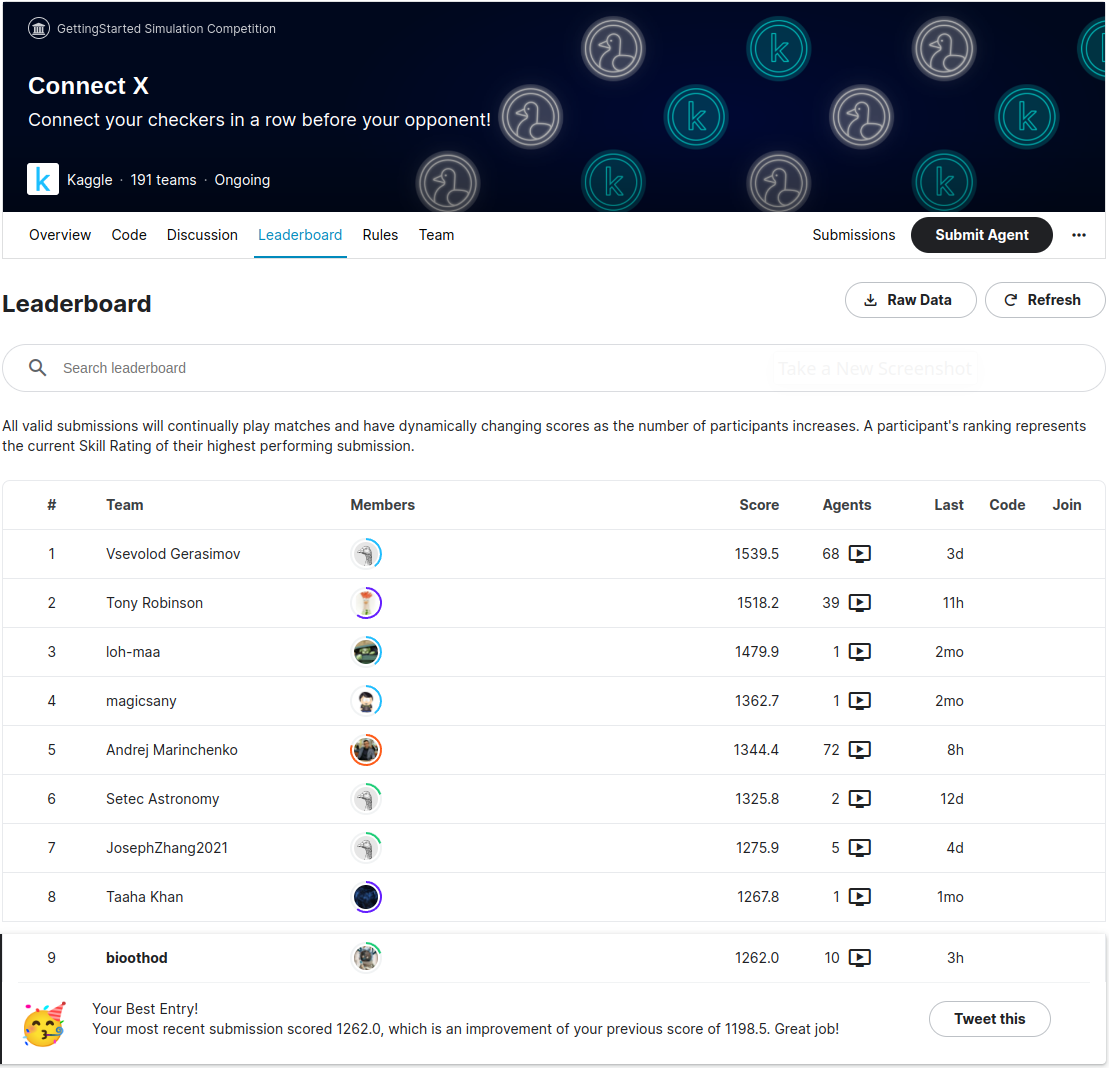
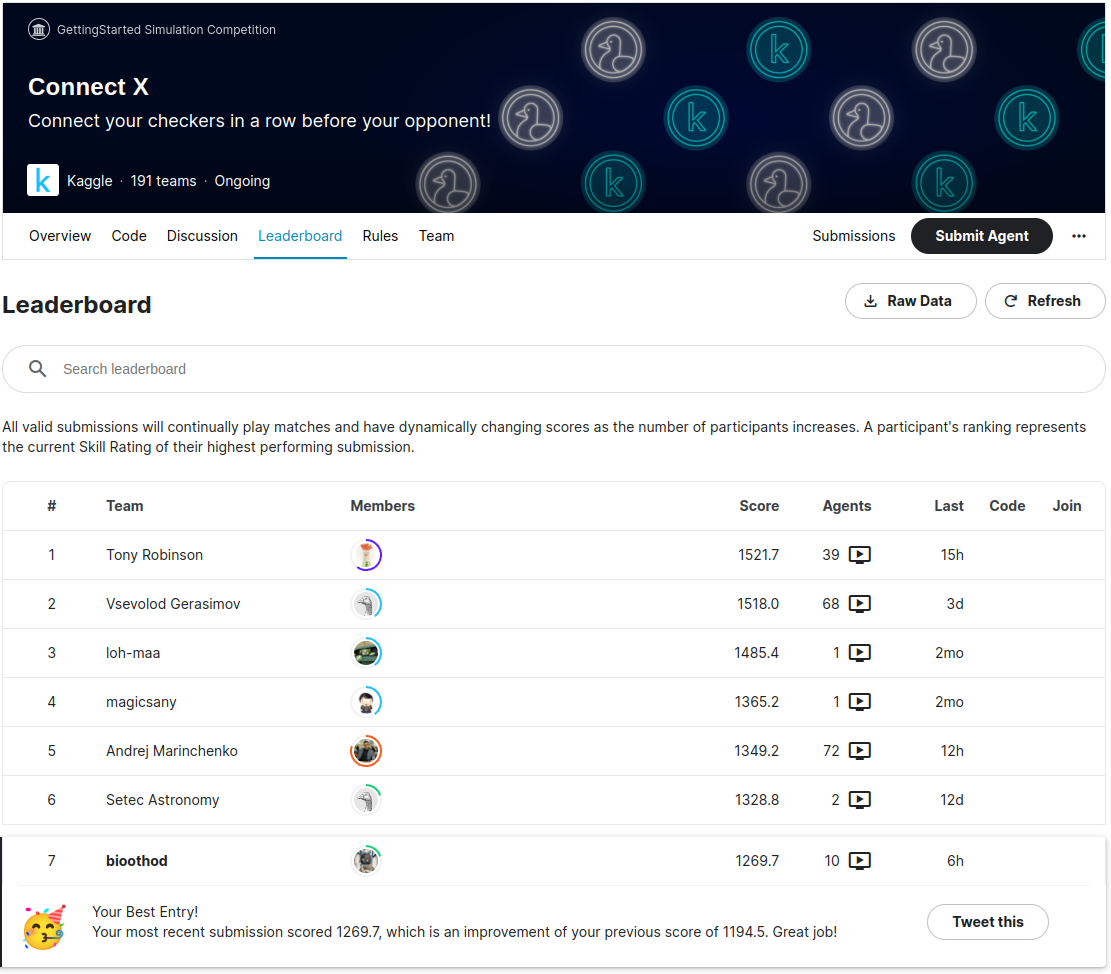
Updated latest kaggle scores

diff --git a/README.md b/README.md
@@ -7,8 +7,8 @@ and against algorithmic agents.
 * GPU connectX implementation
 * DDQN and PPO implementations suitable for the self-play games
 * Current best conv+linear model trained for several days of
-  implemented self-play achieves ~1260 score in
-  https://www.kaggle.com/competitions/connectx (which is shy above
+  implemented self-play achieves ~1270 score in
+  https://www.kaggle.com/competitions/connectx (which is above
   muzero implementation)
 
-![Kaggle submission results (~1260 score, ~10 place)](dnn/kaggle_submission.png)
+![Kaggle submission results (~1270 score, ~10 place)](dnn/kaggle_submission.png)
